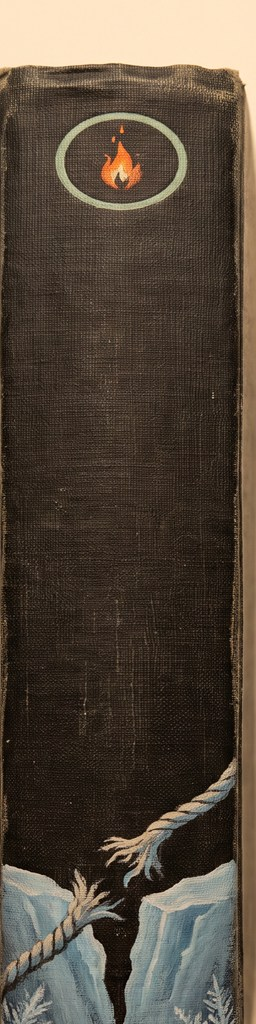
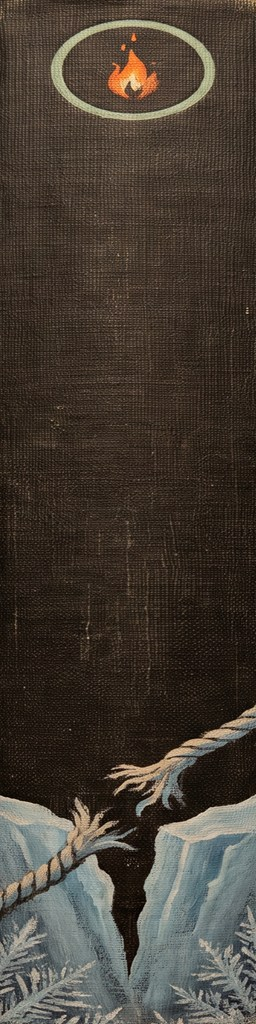
v79: the paint meets the binding — spine art re-cut to pure cloth
Kyle: the images dont line up with the bindings. Right: every generated spine
kept its source render baked edges (backdrop slivers, page blocks, rounded
cloth edges), all sitting inboard of the box corner. Now the art is cropped
deep inside the paint (chroma-weighted backdrop detection so the backdrop own
drop shadow does not stretch the bounds, plus measured per-side trims), and
the binding is DRAWN by the canvas at the texture border — which IS the mesh
corner — so paint and binding agree on every book by construction (shared
edgeShade() over both procedural and art spines). The decor strip is
recomposited into eight exact equal cells from seam detection; the old fixed
windows crossed book boundaries (one filler book wore halves of two spines).

diff --git a/js/room.js b/js/room.js
@@ -1360,10 +1360,12 @@ var clickSfx = AUDIO.clickSfx, rumble = AUDIO.rumble, ratchetSfx = AUDIO.ratchet
     var c = document.createElement("canvas"); c.width = W; c.height = H;
     var g = c.getContext("2d");
     var tex = new THREE.CanvasTexture(c); tex.anisotropy = 8; tex.colorSpace = THREE.SRGBColorSpace;
-    function grain() { // cloth weave, side shading, head/tail caps — free depth on every spine
-      g.globalAlpha = 0.045;
-      for (var y = 0; y < H; y += 3) { g.fillStyle = (y / 3) % 2 ? "#000000" : "#ffffff"; g.fillRect(0, y, W, 1); }
-      g.globalAlpha = 1;
+    // ⚠ the BINDING lives here, not in the art. Generated spine art is cropped to
+    // pure flat cloth (no baked edges — those sat inboard of the box corner and read
+    // as "the image doesn't line up with the binding", Kyle 2026-08-29); these
+    // gradients draw the hinge/cap shading AT the texture border, which IS the mesh
+    // corner, so paint and binding agree on every book by construction.
+    function edgeShade() {
       var gx = g.createLinearGradient(0, 0, W, 0);
       gx.addColorStop(0, "rgba(0,0,0,0.30)"); gx.addColorStop(0.09, "rgba(0,0,0,0)");
       gx.addColorStop(0.91, "rgba(0,0,0,0)"); gx.addColorStop(1, "rgba(0,0,0,0.32)");
@@ -1372,6 +1374,12 @@ var clickSfx = AUDIO.clickSfx, rumble = AUDIO.rumble, ratchetSfx = AUDIO.ratchet
       gy.addColorStop(0, "rgba(255,255,255,0.10)"); gy.addColorStop(0.025, "rgba(0,0,0,0.16)"); gy.addColorStop(0.055, "rgba(0,0,0,0)");
       gy.addColorStop(0.945, "rgba(0,0,0,0)"); gy.addColorStop(0.975, "rgba(0,0,0,0.18)"); gy.addColorStop(1, "rgba(255,255,255,0.08)");
       g.fillStyle = gy; g.fillRect(0, 0, W, H);
+    }
+    function grain() { // cloth weave + the binding shading — free depth on every spine
+      g.globalAlpha = 0.045;
+      for (var y = 0; y < H; y += 3) { g.fillStyle = (y / 3) % 2 ? "#000000" : "#ffffff"; g.fillRect(0, y, W, 1); }
+      g.globalAlpha = 1;
+      edgeShade();
     }
     function title(artMode) {
       g.save();
@@ -1405,6 +1413,7 @@ var clickSfx = AUDIO.clickSfx, rumble = AUDIO.rumble, ratchetSfx = AUDIO.ratchet
       im.onload = function () {
         g.clearRect(0, 0, W, H);
         g.drawImage(im, 0, 0, W, H);
+        edgeShade(); // the binding is drawn at the mesh corners, never baked in the art
         title(true);
         if (opts.over) { g.save(); g.scale(2, 2); opts.over(g, 128, 512); g.restore(); }
         tex.needsUpdate = true;
